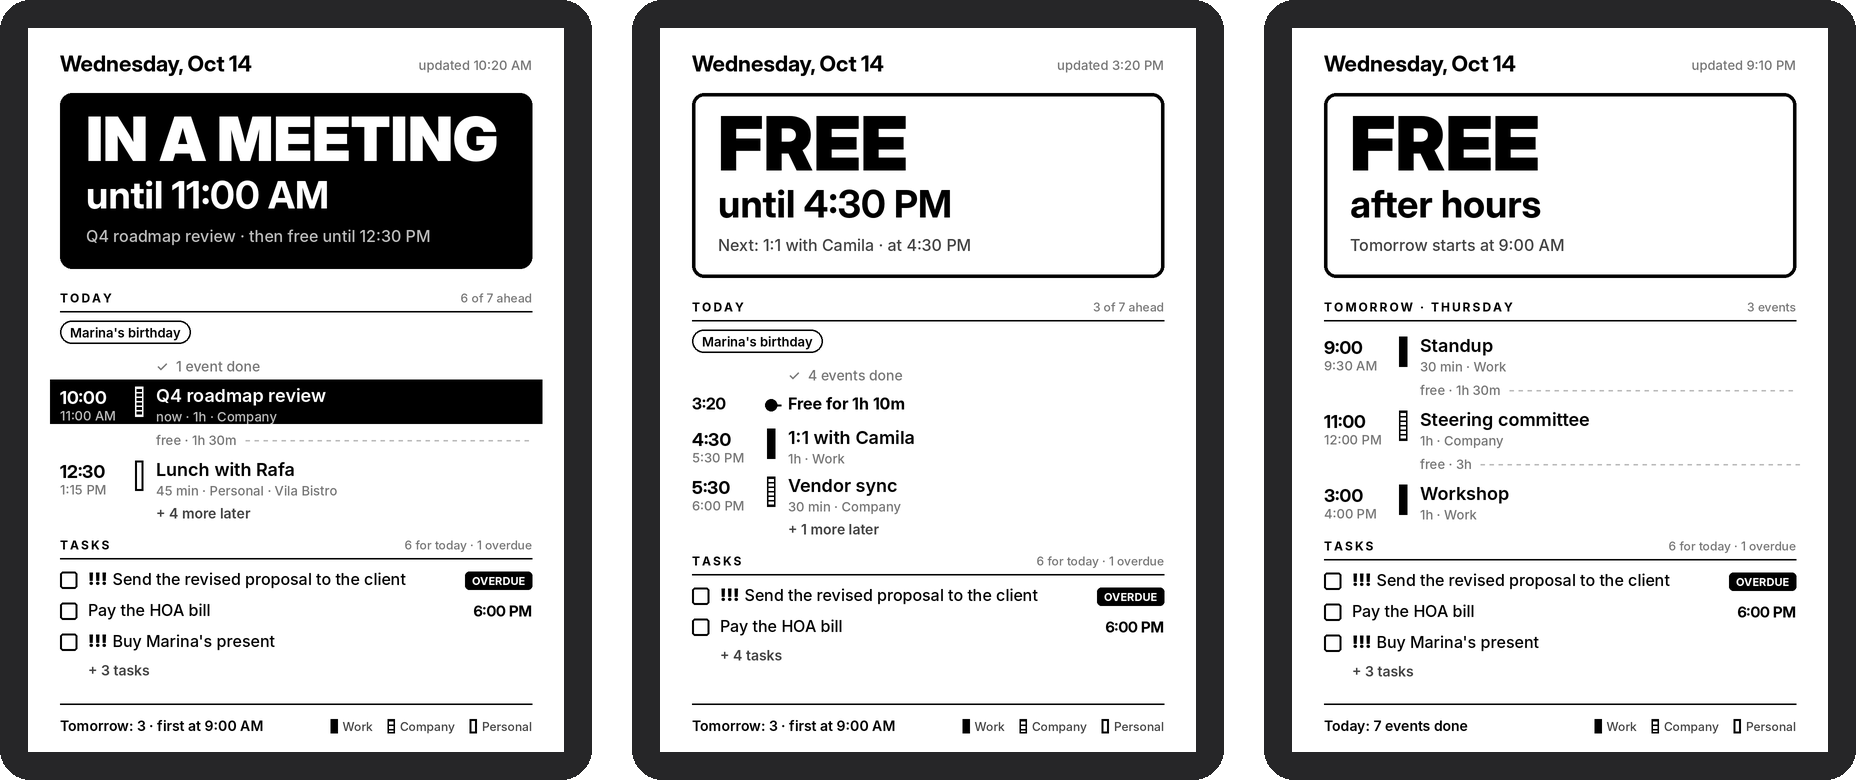
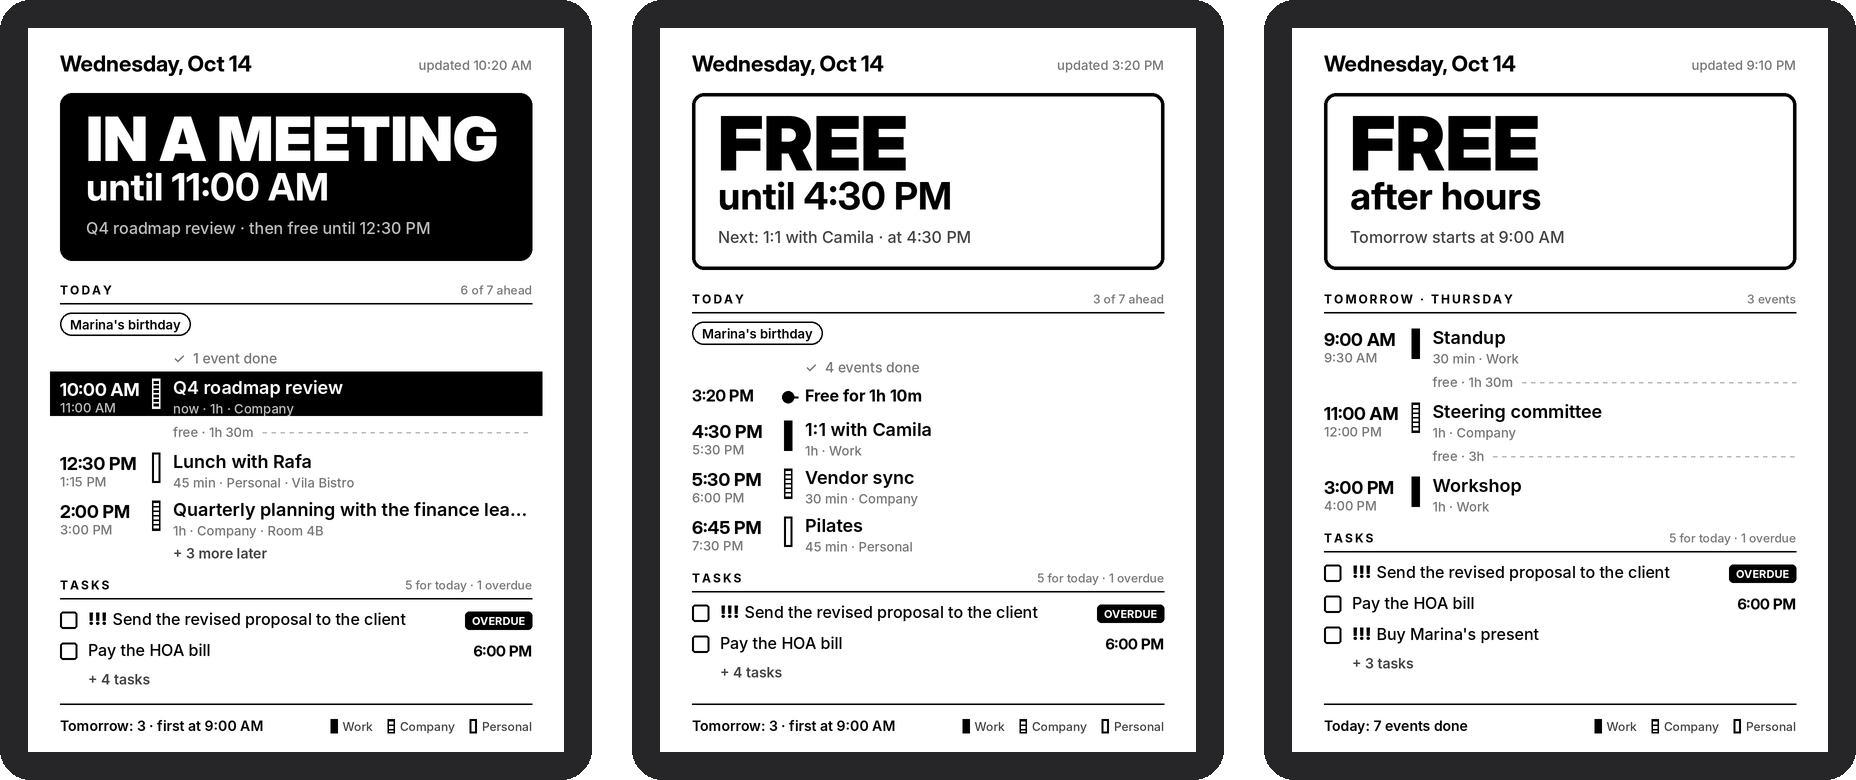
Update docs and screenshots for the review fixes
Claude-Session: https://claude.ai/code/session_015hQsVVjT6CHbPoAD7AbwLf

diff --git a/CLAUDE.md b/CLAUDE.md
@@ -20,7 +20,7 @@ Guidance for Claude (and other contributors) working on this repository.
   catalogs have different keys.
 - Write en-US text in US English: "canceled", "color", 12-hour clock with AM/PM, "Oct 14".
   Write pt-BR text in natural Brazilian Portuguese with the 24-hour clock ("14:30").
-- Format times, dates and durations through `Translator.time()`, `.time_short()`,
+- Format times, dates and durations through `Translator.time()`, `.date_short()`,
   `.date_header()` and `.duration()`, never with ad-hoc f-strings.
 - **User docs exist in both languages.** `README.md` (English) is mirrored by
   `README.pt-BR.md`, and each file in `docs/` has a translation in `docs/pt-BR/`. Update both
@@ -58,6 +58,11 @@ longer and are the usual cause of overflow.
   pixel to those levels; keep strokes at least 3 px wide so they survive e-ink.
 - Calendars are never merged with each other; only repeats inside one calendar are
   de-duplicated.
+- The door must never say "Free" without knowing. If a busy calendar cannot be read, the
+  server reuses that calendar's last good data for the day (`SourceCache`), and with no data
+  at all the status becomes "Knock first". If rendering fails, an error screen replaces the
+  old image.
+- The HTTP server only serves `/kindle.png`; never expose the output folder or anything else.
 - Kindle scripts must be POSIX `sh` (BusyBox), use LF line endings (`.gitattributes` enforces
   it), and pass ShellCheck with `kindle/.shellcheckrc`.
 - Fonts in `src/inkdoor/fonts/` are a Latin subset of Inter (SIL OFL 1.1). If you need a glyph

diff --git a/docs/calendar-sources.md b/docs/calendar-sources.md
@@ -51,4 +51,6 @@ Tasks due today and overdue ones (up to `overdue_days`) are shown. Completed tas
 - Teams, Zoom and Meet links in the location field are hidden.
 - Repeats of the same event **within one calendar** are merged; different calendars are never
   mixed.
-- If a calendar cannot be read, the others still show and the footer says which one failed.
+- If a calendar cannot be read, the last good data from today is reused and the footer says
+  which one failed. If there is no data for it yet, the door shows "Knock first" instead of
+  "Free".

diff --git a/docs/pt-BR/calendar-sources.md b/docs/pt-BR/calendar-sources.md
@@ -52,4 +52,6 @@ Tarefas concluídas são ignoradas.
 - Links de Teams, Zoom e Meet no campo de local não são mostrados.
 - Repetições do mesmo compromisso **dentro de uma agenda** são unificadas; agendas diferentes
   nunca se misturam.
-- Se uma agenda não puder ser lida, as outras continuam aparecendo e o rodapé avisa qual falhou.
+- Se uma agenda não puder ser lida, os últimos dados bons do dia são reaproveitados e o rodapé
+  avisa qual falhou. Se ainda não houver dado nenhum dela, a porta mostra "Bata antes" em vez
+  de "Livre".

diff --git a/docs/pt-BR/kindle.md b/docs/pt-BR/kindle.md
@@ -57,5 +57,6 @@ não inicia sozinho depois de reiniciar.
   Kindle no carregador. Um cabo USB fino passa bem pelo batente da porta.
 - **IP fixo**: reserve um IP para o computador no roteador, senão o endereço muda e o painel
   para de atualizar.
+- **Uma instância só**: tocar duas vezes em "start display" não inicia dois painéis.
 - **Sem conexão**: depois de 3 falhas seguidas, aparece "sem conexao com o PC" no canto da tela.
   O histórico fica em `inkdoor/log.txt`.

diff --git a/docs/kindle.md b/docs/kindle.md
@@ -57,5 +57,6 @@ start by itself after a restart.
   charger. A thin USB cable fits through most door frames.
 - **Fixed IP**: reserve an IP for your computer on the router; otherwise the address changes
   and the display stops updating.
+- **Single instance**: tapping "start display" twice does not start two loops.
 - **No connection**: after 3 failures in a row, "cannot reach the computer" appears in the
   corner of the screen. The history is in `inkdoor/log.txt`.

diff --git a/README.pt-BR.md b/README.pt-BR.md
@@ -38,6 +38,8 @@ sua rede.
 - **Tarefas**: as de hoje e as atrasadas, com prioridade e horário.
 - **Depois do expediente**, a lista passa a mostrar o dia seguinte.
 - Cada agenda tem um marcador próprio (sólido, listrado, contorno), já que o e-ink não tem cor.
+- **Ele não chuta.** Se o link de uma agenda falhar, os últimos dados bons do dia são reaproveitados;
+  sem dado nenhum, a porta mostra `BATA ANTES` em vez de `LIVRE`.
 
 ## Começando
 

diff --git a/README.md b/README.md
@@ -39,6 +39,8 @@ stays on your network.
 - **Tasks**: due today and overdue, with priority and time.
 - **After hours**, the list switches to tomorrow.
 - Each calendar has its own marker (solid, striped, outline), since e-ink has no color.
+- **It never guesses.** If a calendar link fails, the last good data from today is reused; with
+  no data at all the door says `KNOCK FIRST` instead of `FREE`.
 
 ## Getting started
 
